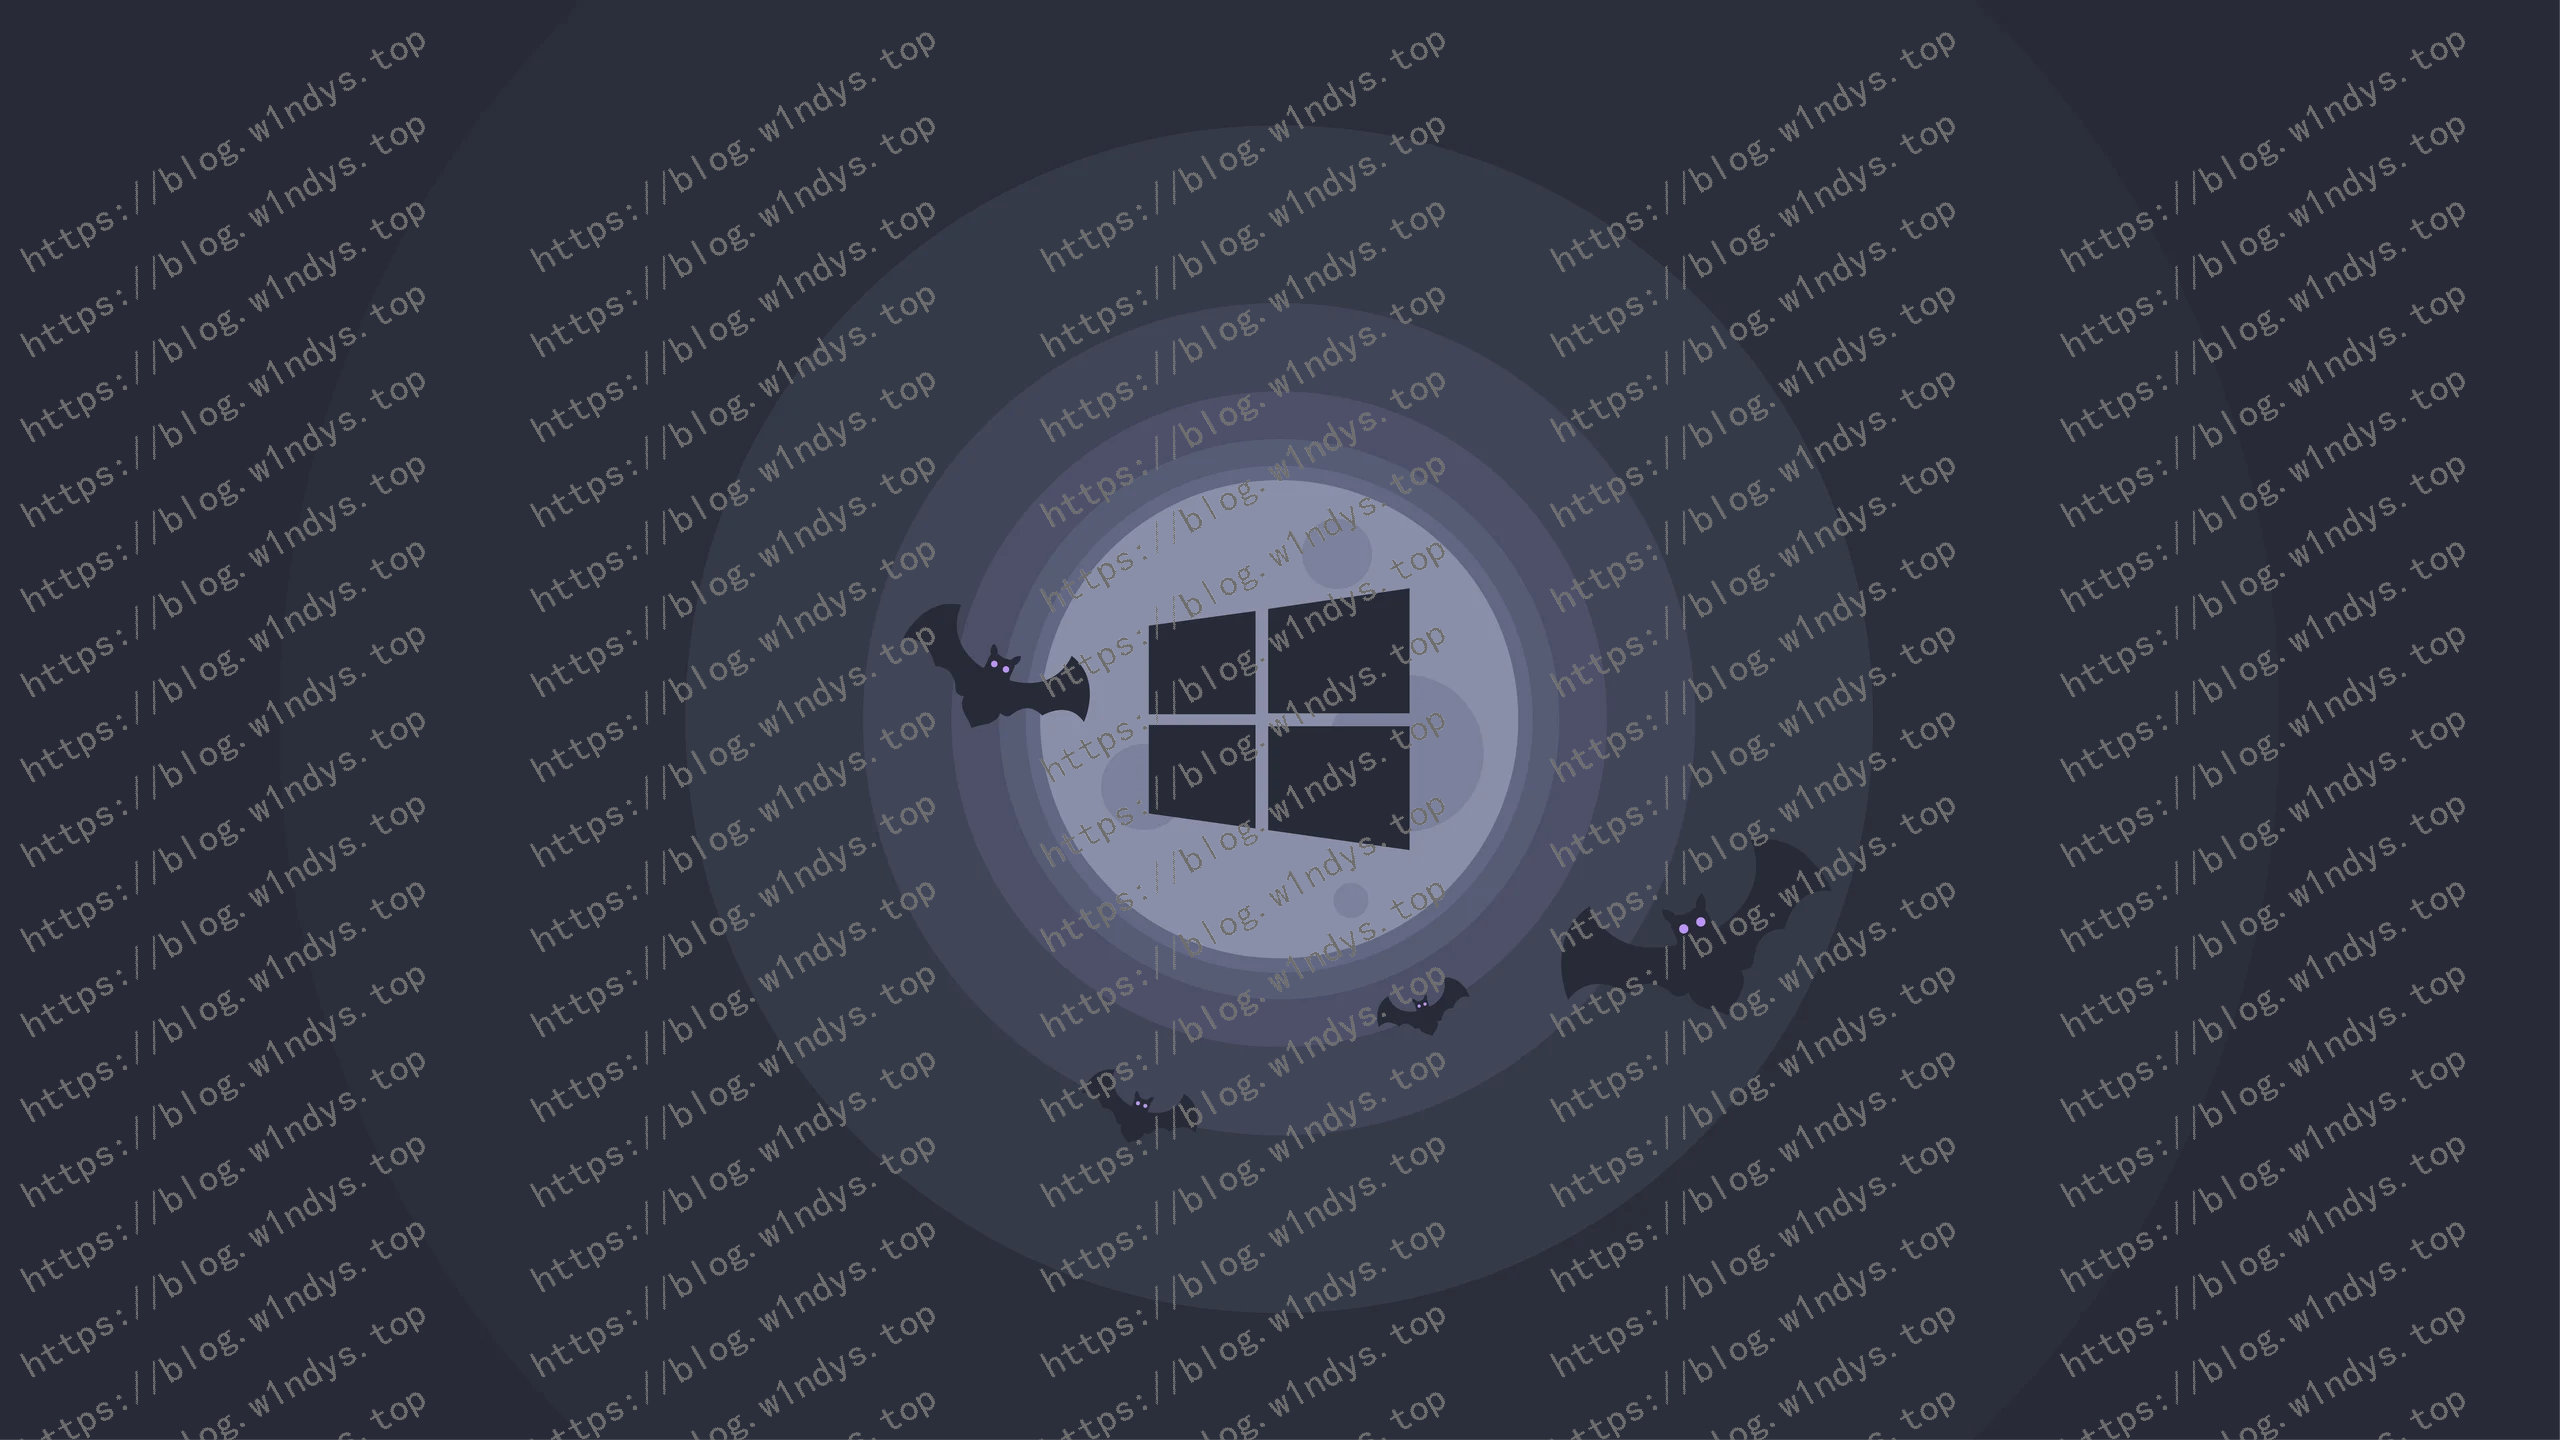
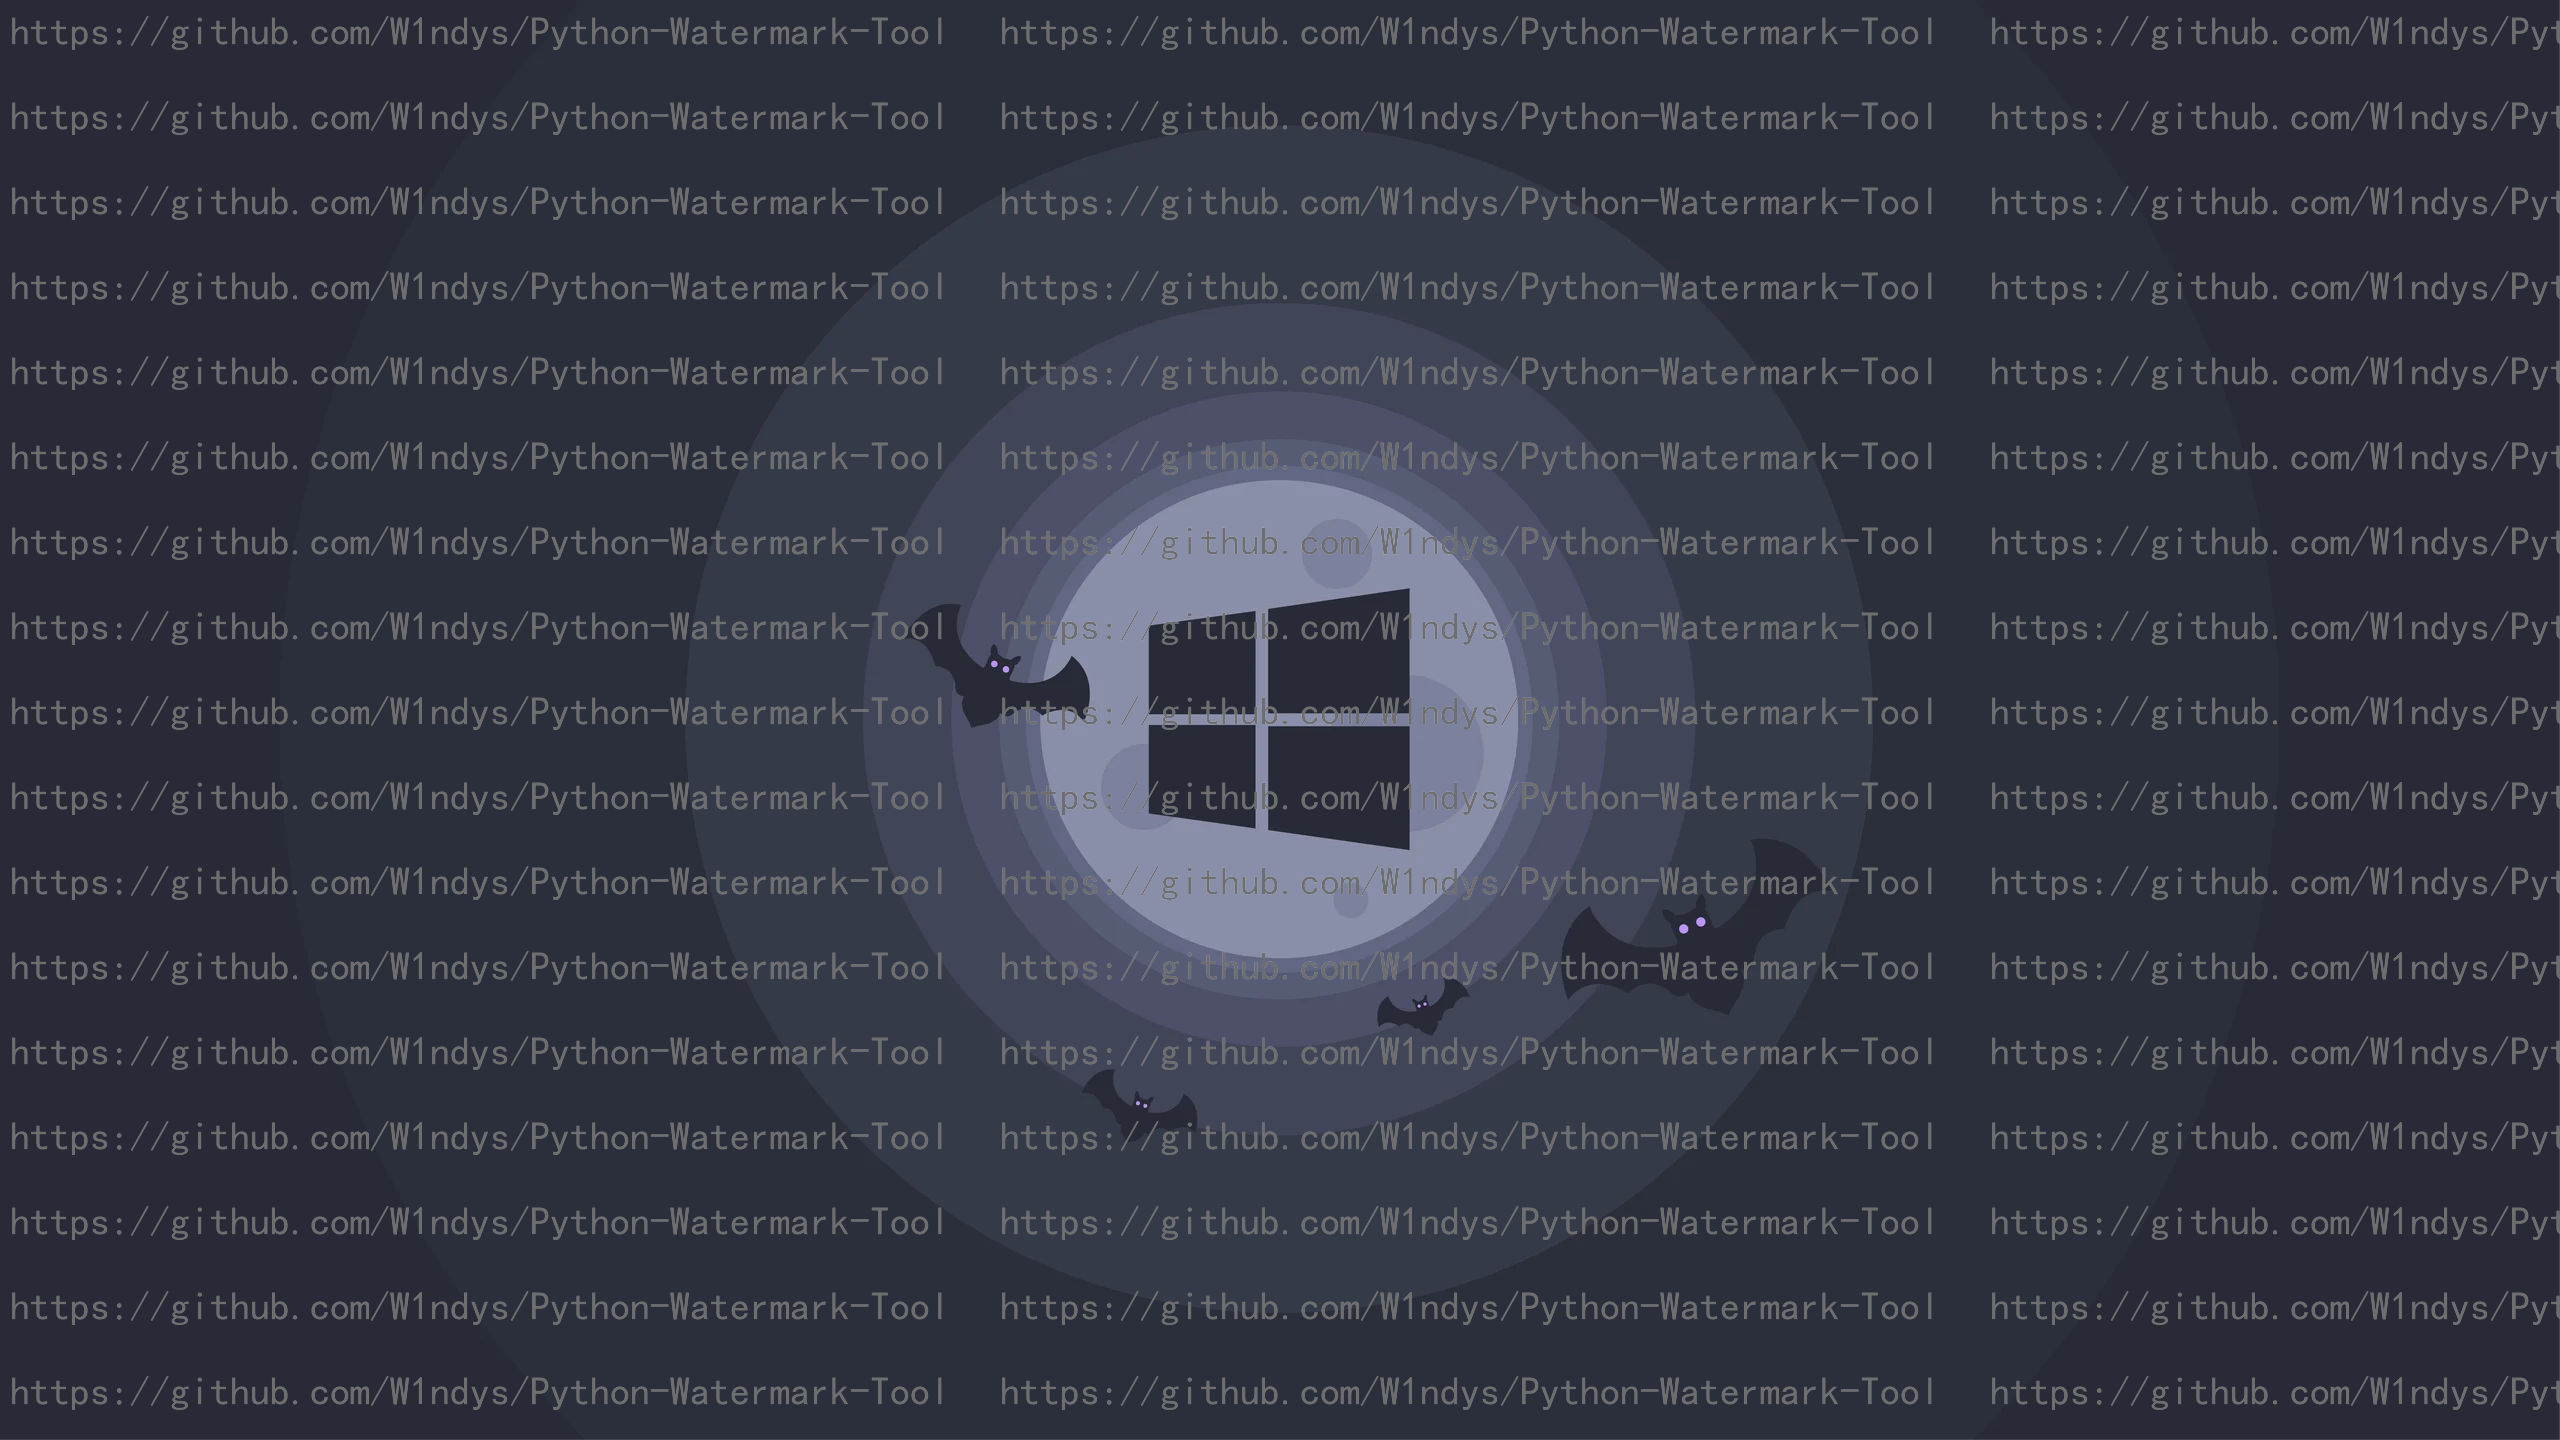
Push

diff --git a/main.py b/main.py
@@ -98,11 +98,11 @@ def batch_add_watermark(
 # 设置输入目录和输出目录
 input_dir = "input"
 output_dir = "output"
-watermark_text = "https://blog.w1ndys.top"
+watermark_text = "https://github.com/W1ndys/Python-Watermark-Tool"
 
 # 字体大小、角度、间隔和颜色（使用十六进制颜色代码）
 font_size = 40
-angle = 30
+angle = 0
 spacing = 50
 color_hex = "#6e6e6e"
 
